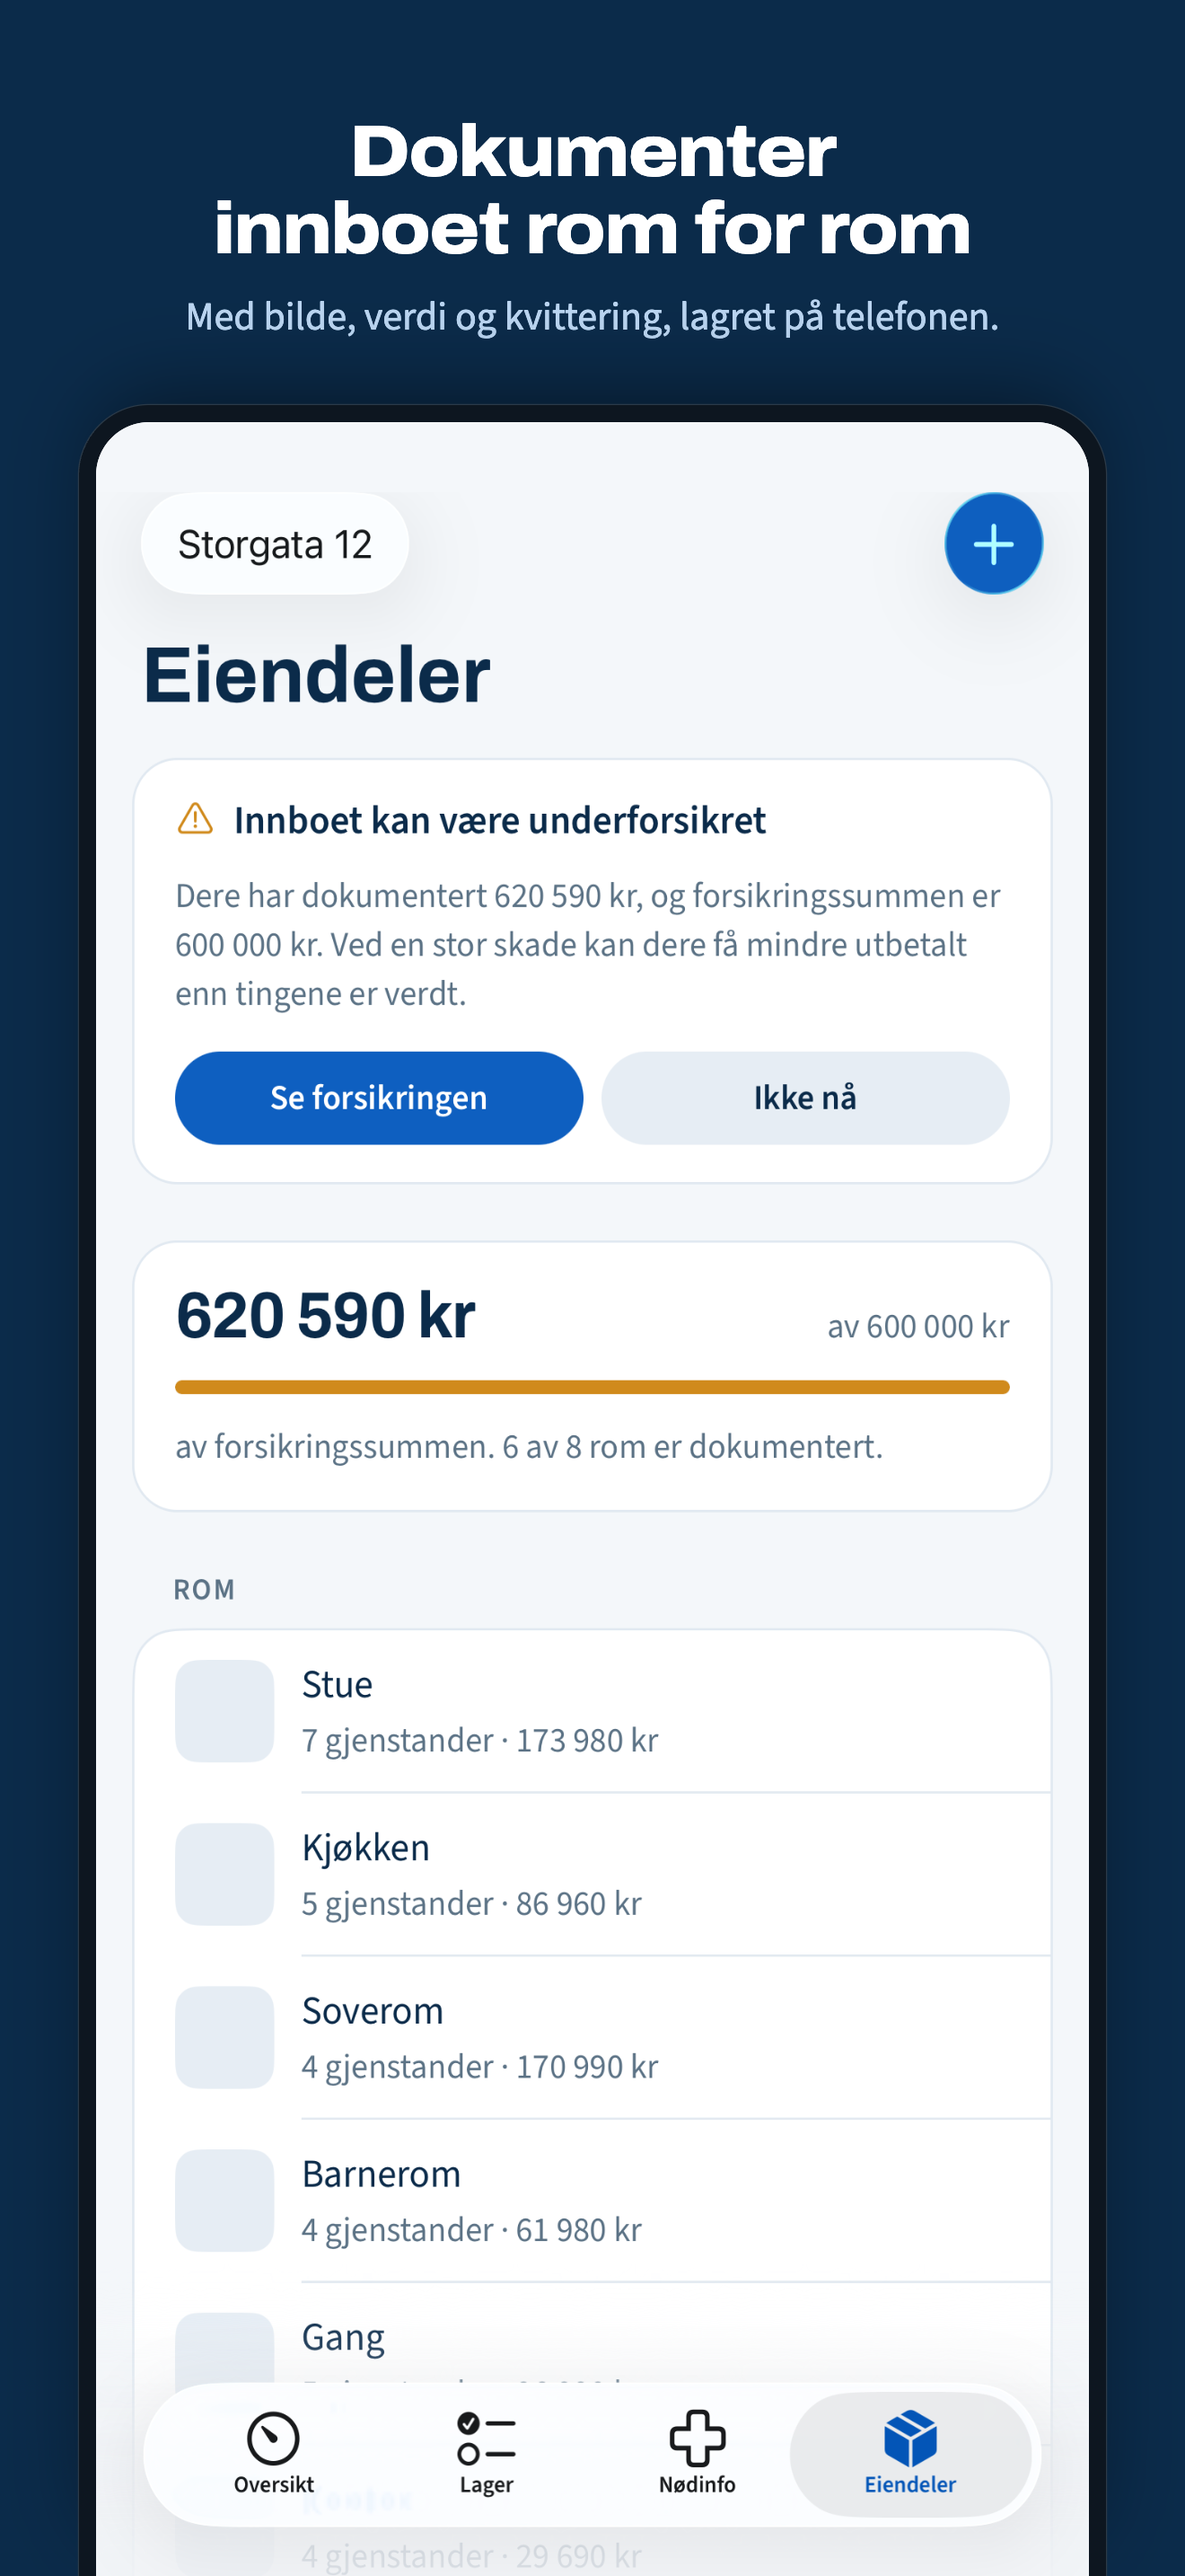
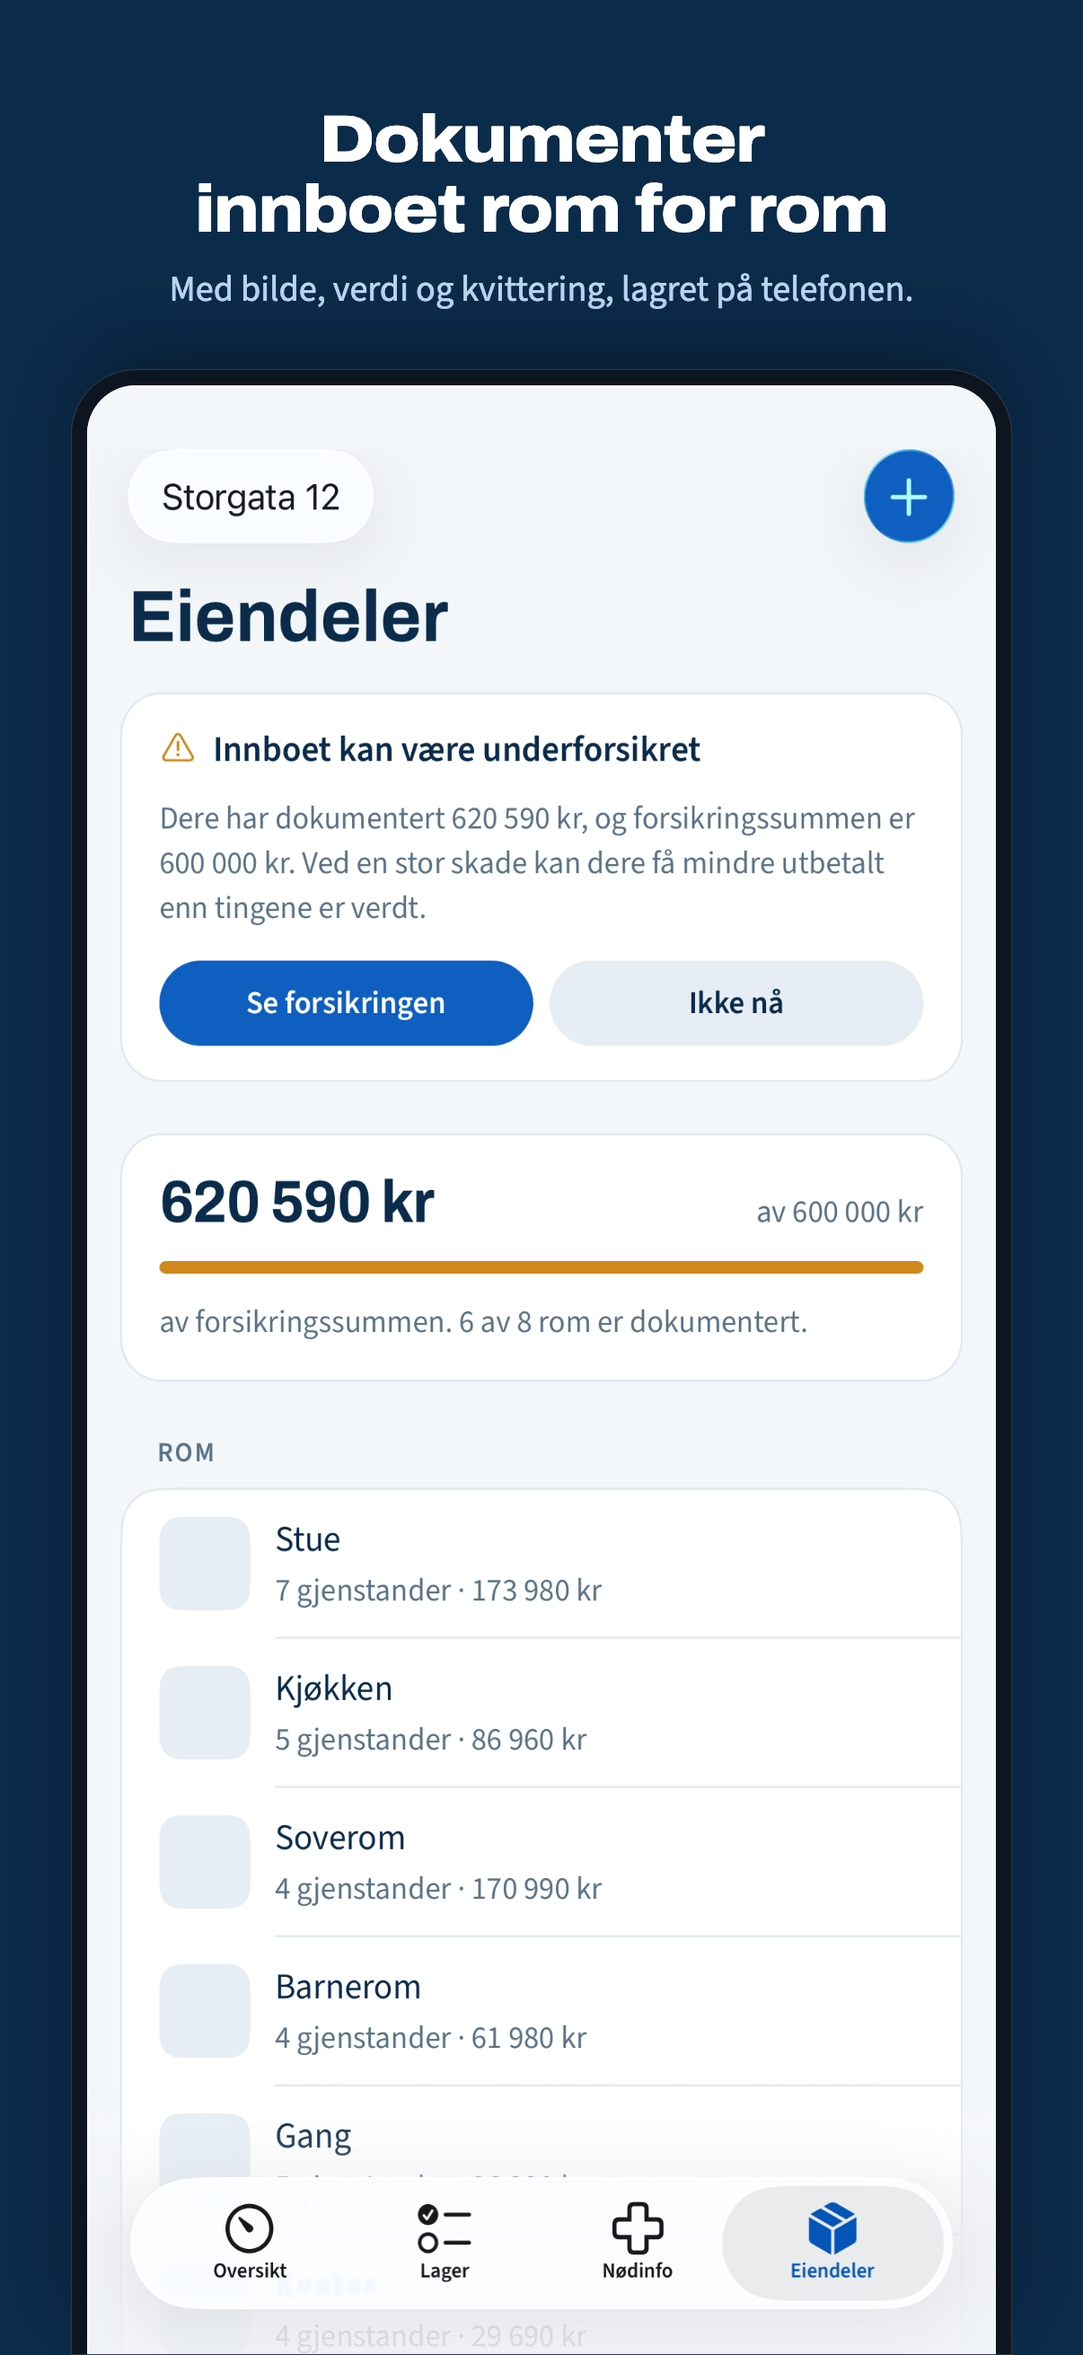
iPhone screenshots at 1206x2622 for App Store Connect's required 6.1/6.3-inch slot

diff --git a/docs/store/app-store-connect.md b/docs/store/app-store-connect.md
@@ -13,7 +13,7 @@ categories, content rights, age rating 4+), pricing and availability, and the pr
 - **App Privacy** data types: the questionnaire publishes the answers on the product page, so Mikkel fills it in
   (answers under «App Privacy» below) and presses «Publish»
 - **Screenshots**: the browser pane can't upload files; drag `skjermbilder/ios/1-oversikt.png` … `6-guide.png` into
-  the iPhone 6.9″ slot on the version page
+  the «iPhone with Dynamic Island» slot on the version page (shown only when the window is wide; in a narrow window the section is missing)
 - **Build**: still processing at Apple; attach it on the version page once it shows, after answering its encryption
   question in TestFlight
 - **Add for Review**: Mikkel's step, after testing the build from TestFlight on a real iPhone
@@ -71,7 +71,7 @@ From `privacy-answers.md`, «Apple: App Privacy», 1.0 set, unchanged by 1.7:
 
 | Field | Value |
 | --- | --- |
-| Screenshots, iPhone 6.9″ | `skjermbilder/ios/1-oversikt.png` … `6-guide.png` (1320×2868), composed by `render-screenshots.mjs --ios` from simulator captures in `skjermbilder/ios/kilde/` (demo household). Re-rendered 2026-10-29 with more space above the screen and a new Lager capture (the first still had Expo's dev tools button). Apple scales them down for the smaller iPhones. No iPad set: `supportsTablet` is false |
+| Screenshots, iPhone | `skjermbilder/ios/1-oversikt.png` … `6-guide.png` (1206×2622, the size App Store Connect's required «iPhone with Dynamic Island (medium display)» slot takes; it rejected 1320×2868), composed by `render-screenshots.mjs --ios` from simulator captures in `skjermbilder/ios/kilde/` (demo household). Re-rendered 2026-10-29 with more space above the screen and a new Lager capture (the first still had Expo's dev tools button). Apple scales them down for the smaller iPhones. No iPad set: `supportsTablet` is false |
 | Promotional text | `listing.md`, «Promotional text» |
 | Description | `listing.md`, «Full description» (the iPhone wording: «låst med Face ID eller kode» and the line about the locked phone) |
 | Keywords | `listing.md`, «Keywords» |

diff --git a/LAUNCH.md b/LAUNCH.md
@@ -227,7 +227,7 @@ Checked in the iOS simulator on the test household: Oversikt, Lager, the check's
       `apps/mobile/eas.json`
       *(2026-10-29: Play done. On Mikkel's go, Claude registered the bundle ID in the developer account and created the
       App Store Connect app «Egenberedskapsappen» (Norwegian, SKU `egenberedskapsappen`, Apple ID `6828561866`);
-      `submit.production.ios` has the `ascAppId` and Team ID. Every App Store Connect answer is drafted in `docs/store/app-store-connect.md`; the iPhone 6.9″
+      `submit.production.ios` has the `ascAppId` and Team ID. Every App Store Connect answer is drafted in `docs/store/app-store-connect.md`; the iPhone
       screenshots are in `docs/store/skjermbilder/ios/`, from the iOS simulator with the demo household)*
 - [ ] Store listings in Norwegian: text, real screenshots, the privacy policy URL. *(2026-10-18, Claude in Play Console:
       app name corrected to «Egenberedskapsappen», short and full description entered and saved as a draft; category
